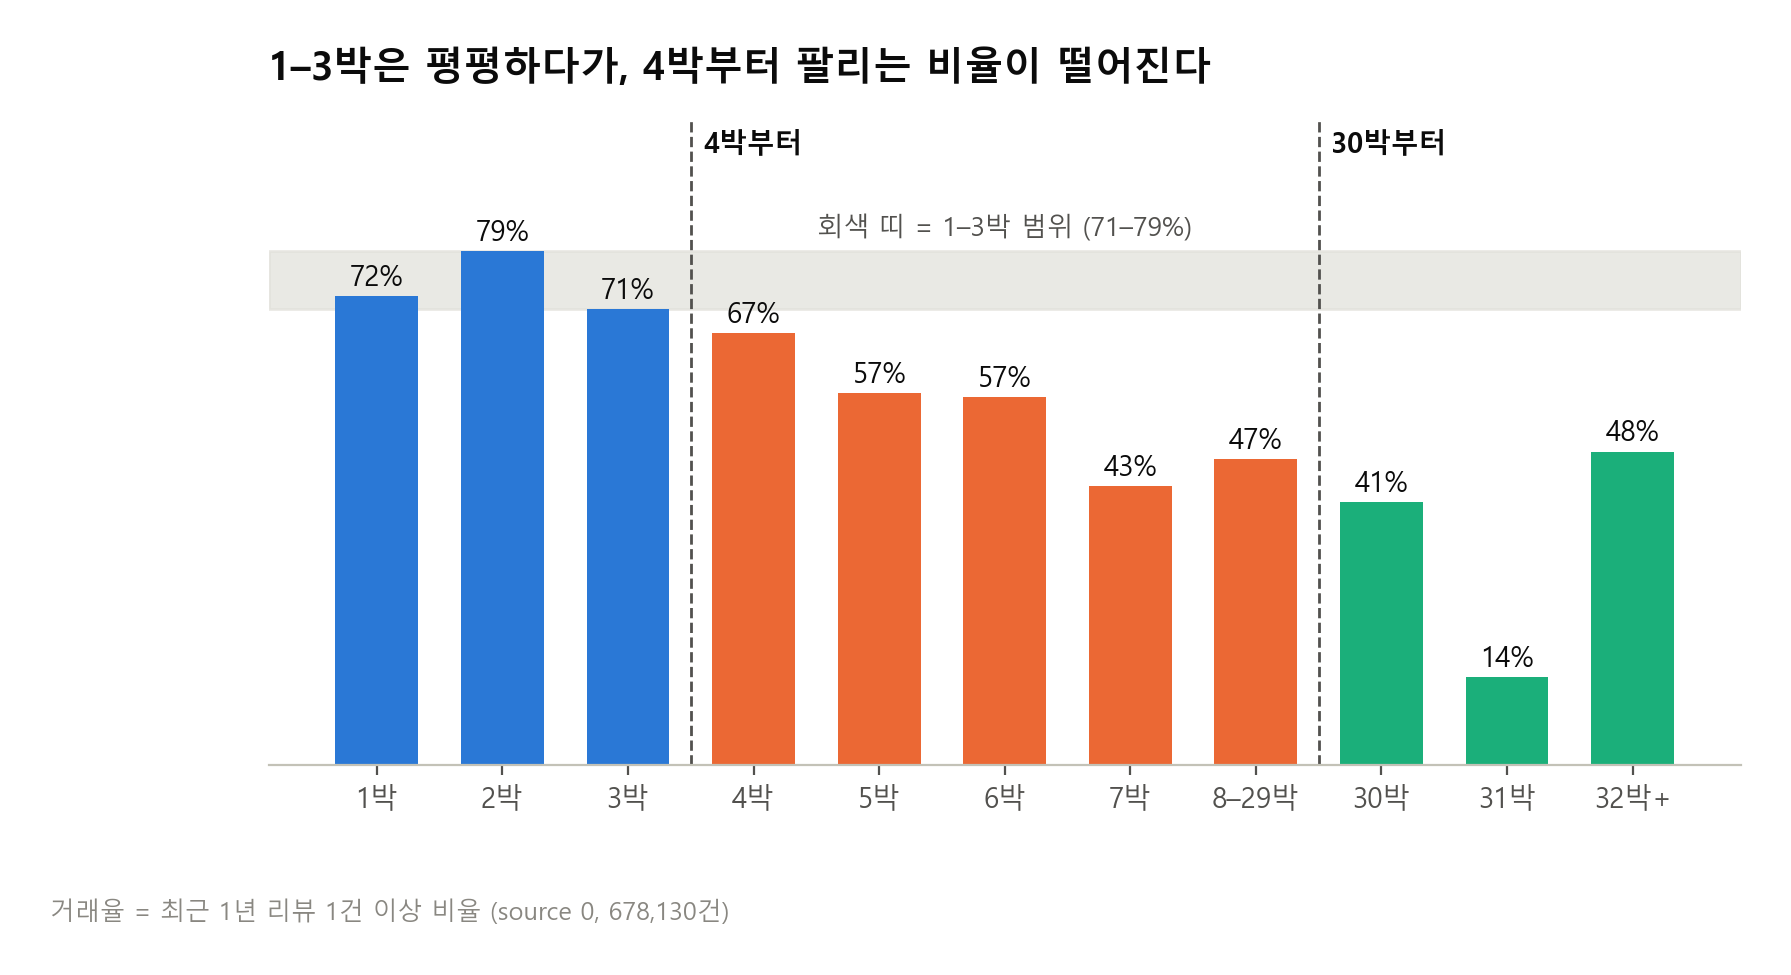
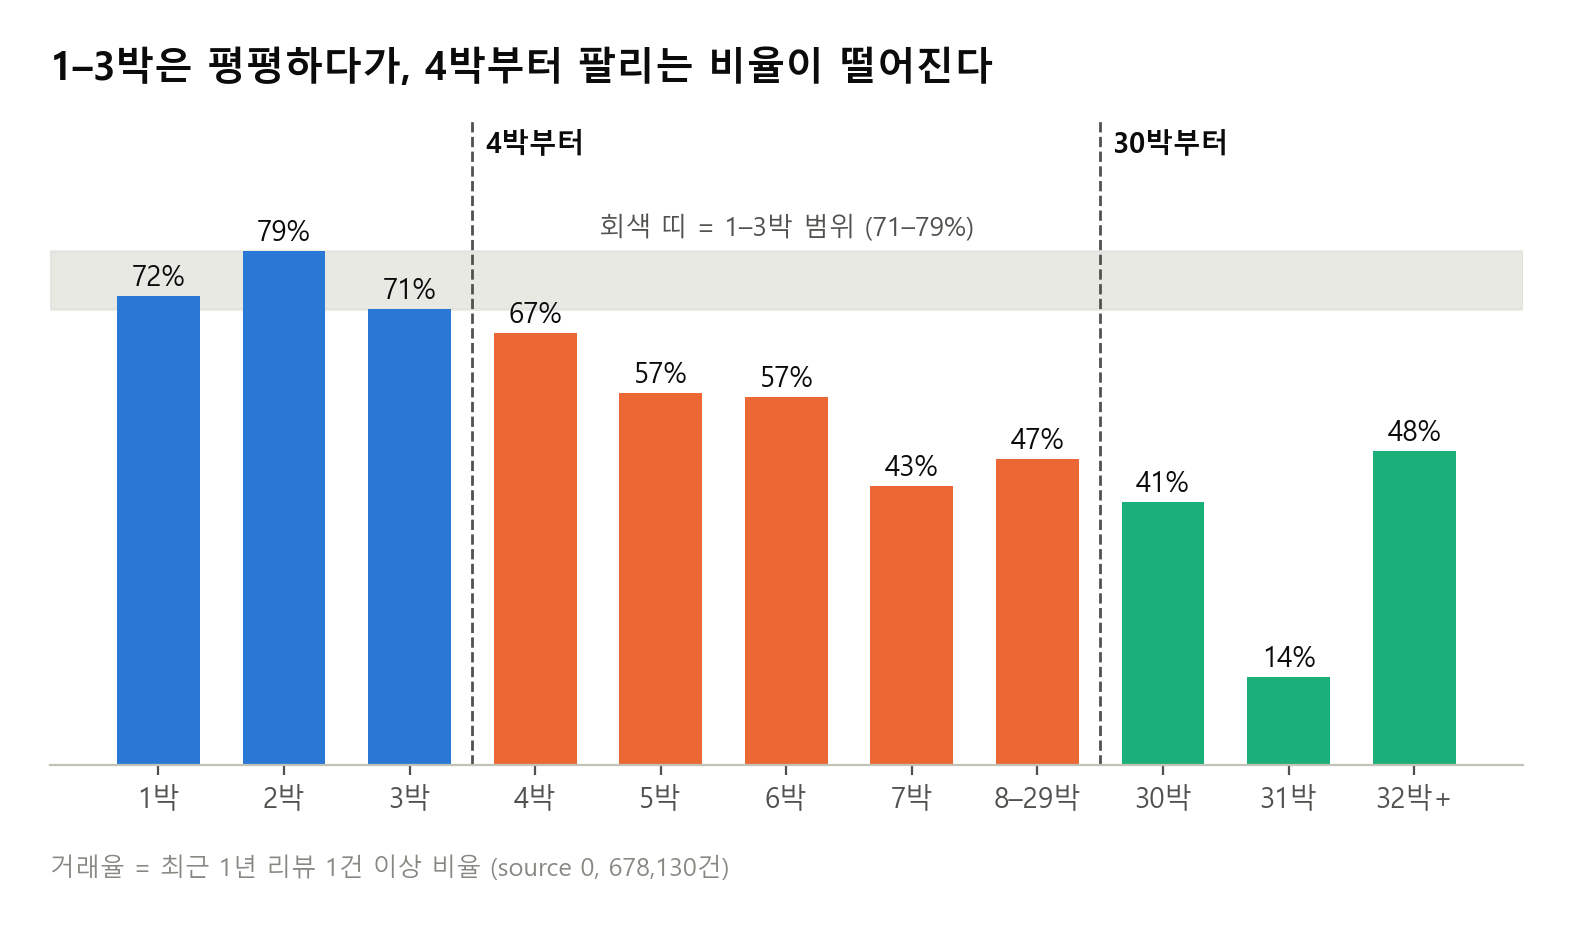
Align the 4-night chart's footnote with the plot's left edge

diff --git a/presentation/make_figures.py b/presentation/make_figures.py
@@ -127,7 +127,9 @@ for xv, lab in [(2.5, "4박부터"), (7.5, "30박부터")]:
 ax.set_xticks(range(len(r)), labs, fontsize=10)
 ax.set_yticks([]); ax.set_ylim(0, 100); ax.grid(False)
 ax.set_title("1–3박은 평평하다가, 4박부터 팔리는 비율이 떨어진다", loc="left")
-save(fig, "03b_minnights_break.png", "거래율 = 최근 1년 리뷰 1건 이상 비율 (source 0, 678,130건)")
+ax.text(0, -0.14, "거래율 = 최근 1년 리뷰 1건 이상 비율 (source 0, 678,130건)", transform=ax.transAxes,
+        fontsize=9, color=MUTED, ha="left", va="top")
+save(fig, "03b_minnights_break.png")
 
 # ── 04. 2×3 칸 ──────────────────────────────────────────────────────
 cnt = s["cell"].astype(int).value_counts()
